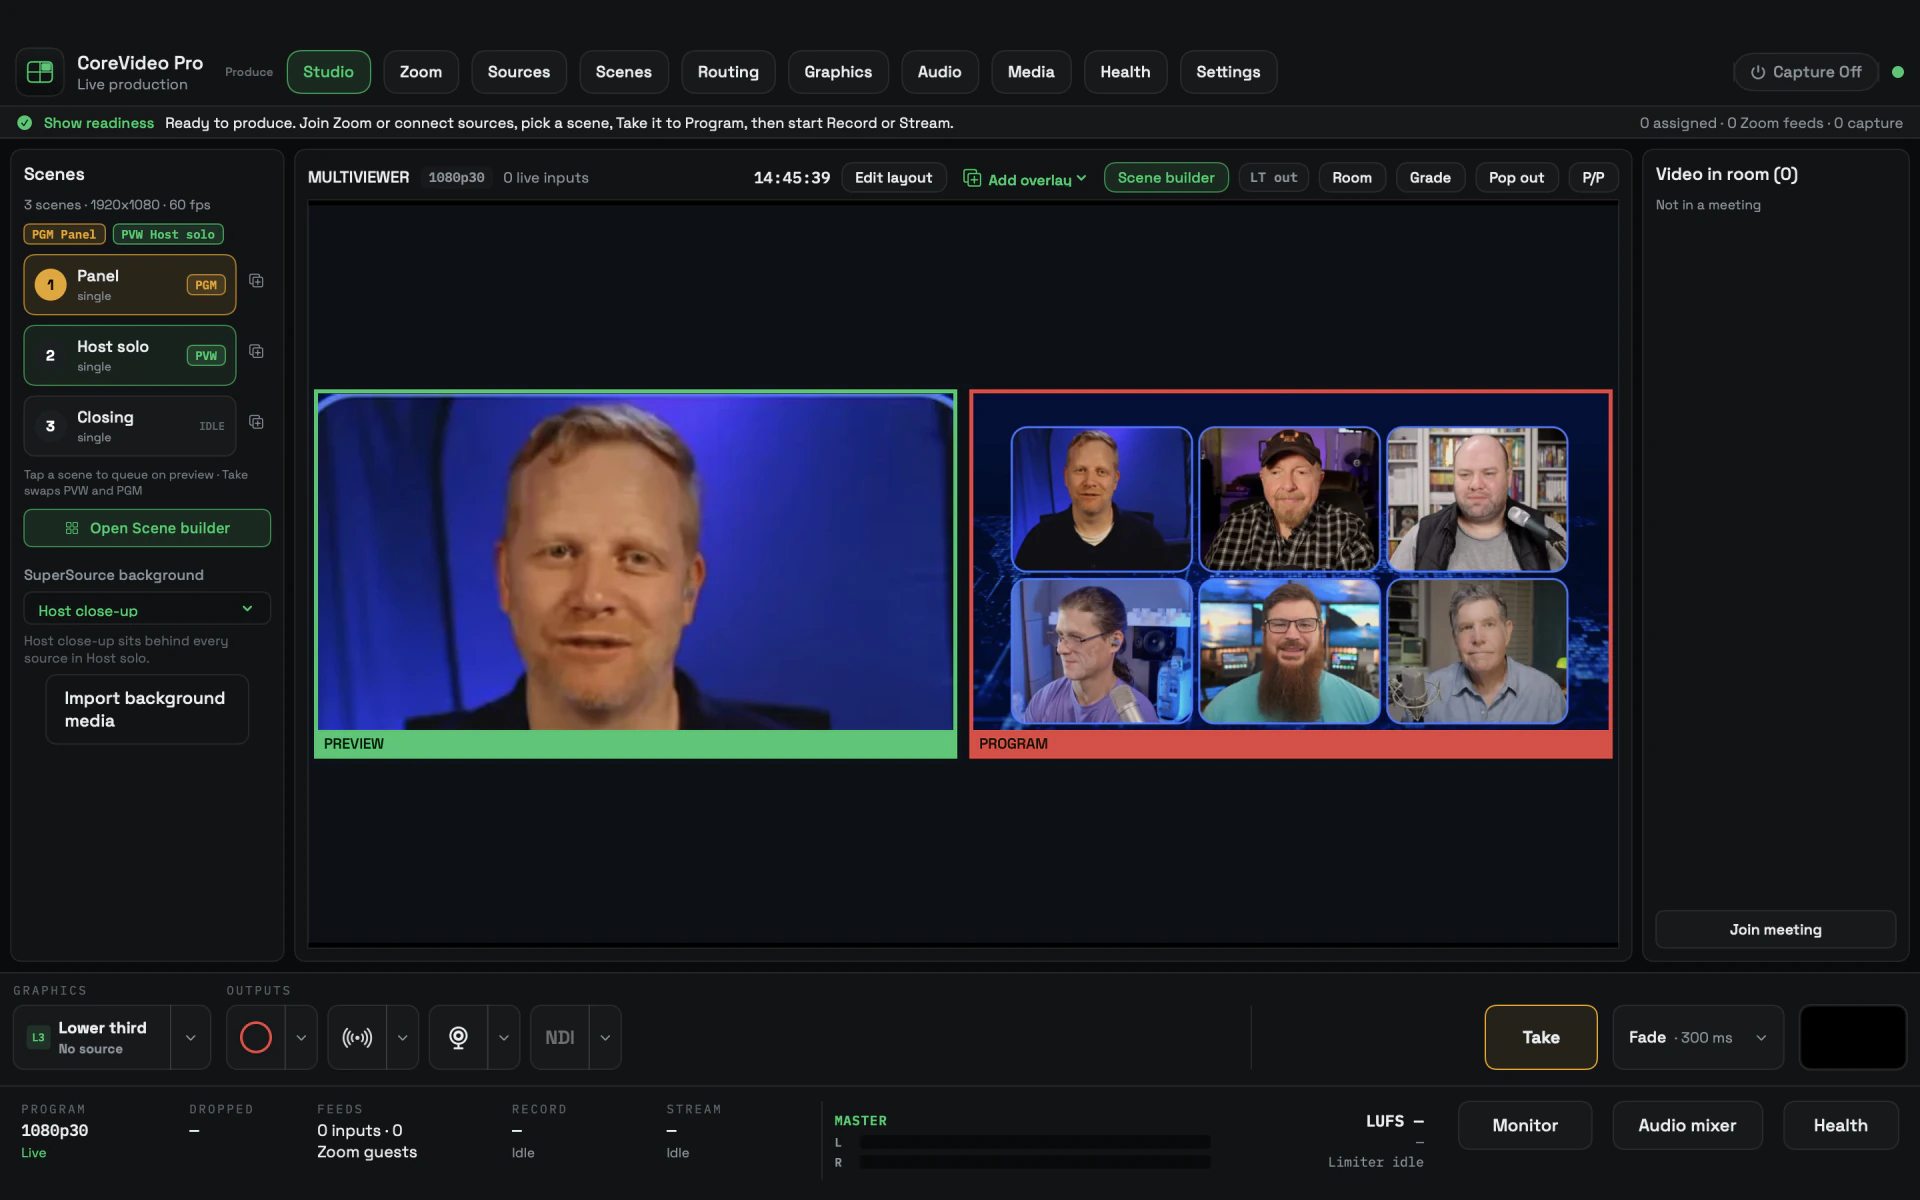
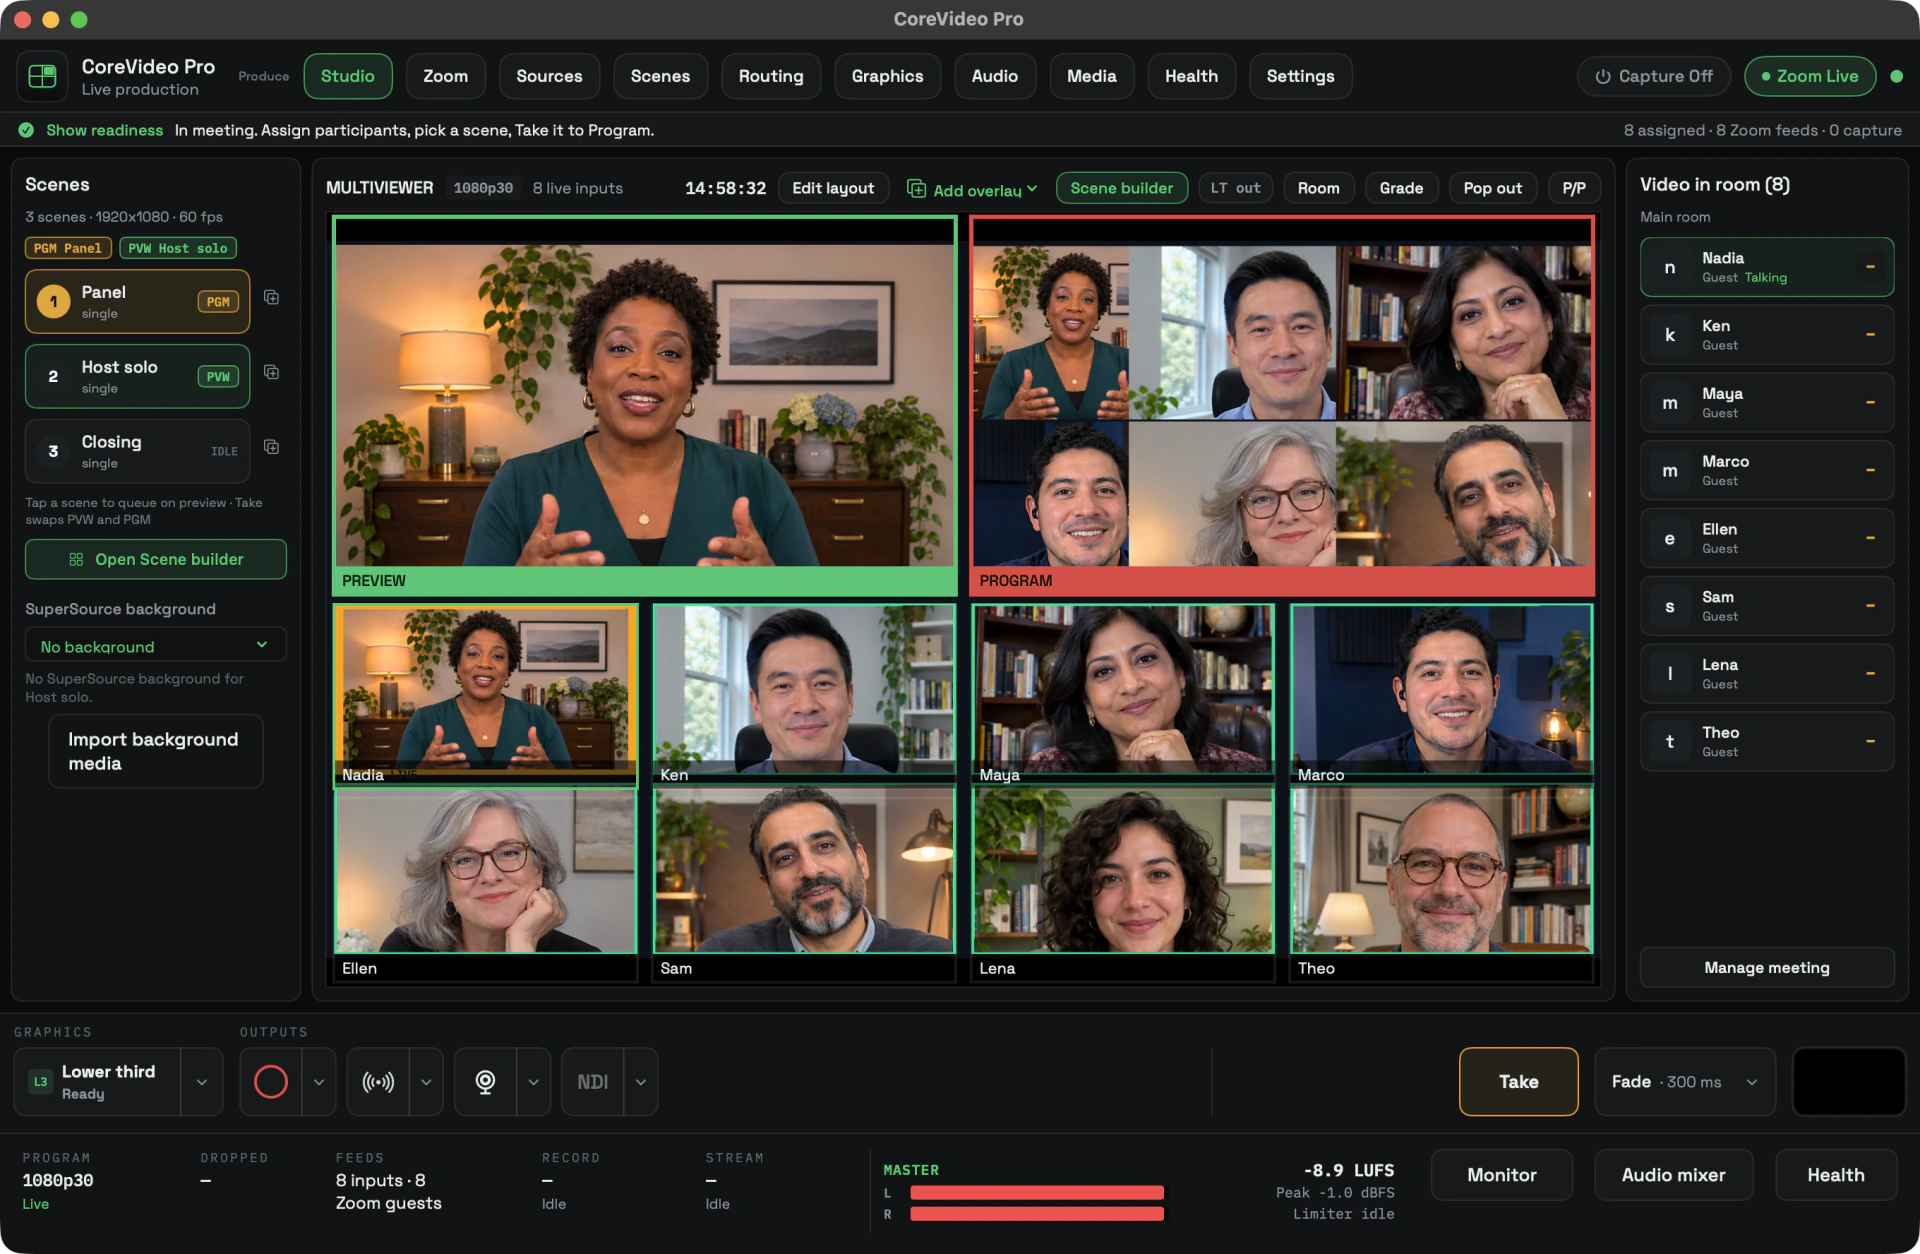
Show eight generated sources in the Pro multiviewer

diff --git a/public/pro/index.html b/public/pro/index.html
@@ -17,16 +17,16 @@
   <meta property="og:title" content="CoreVideo Pro 1.0 - Zoom Production Studio for Windows">
   <meta property="og:description" content="CoreVideo Pro 1.0 for Windows: Zoom guests as 1080p sources, scenes with Take, in-meeting talkback, ISO recording, streaming, NDI and a virtual camera.">
   <meta property="og:image" content="https://corevideo.io/assets/pro-studio-1-0.webp">
-  <meta property="og:image:alt" content="CoreVideo Pro Studio with a host close-up in Preview and a six-person panel in Program">
+  <meta property="og:image:alt" content="CoreVideo Pro Studio with a host in Preview, a six-person panel in Program, and eight source tiles below">
   <meta property="og:image:width" content="1920">
-  <meta property="og:image:height" content="1200">
+  <meta property="og:image:height" content="1254">
   <meta property="og:locale" content="en_US">
   <meta property="og:url" content="https://corevideo.io/pro/">
   <meta name="twitter:card" content="summary_large_image">
   <meta name="twitter:title" content="CoreVideo Pro 1.0 - Zoom Production Studio for Windows">
   <meta name="twitter:description" content="CoreVideo Pro 1.0 for Windows: Zoom guests as 1080p sources, scenes with Take, in-meeting talkback, ISO recording, streaming, NDI and a virtual camera.">
   <meta name="twitter:image" content="https://corevideo.io/assets/pro-studio-1-0.webp">
-  <meta name="twitter:image:alt" content="CoreVideo Pro Studio with a host close-up in Preview and a six-person panel in Program">
+  <meta name="twitter:image:alt" content="CoreVideo Pro Studio with a host in Preview, a six-person panel in Program, and eight source tiles below">
   <link rel="stylesheet" href="/assets/site-shell.css">
   <link rel="stylesheet" href="/assets/site.css">
   <script defer src="/assets/site-nav.js"></script>
@@ -63,8 +63,8 @@
     <p class="product-utility"><a href="/news/corevideo-pro-1-0/">What&rsquo;s in 1.0</a><a href="https://github.com/iamfatness/CoreVideoPro">GitHub repository</a></p>
   </div>
   <figure class="hero-media product-shot">
-    <img src="/assets/pro-studio-1-0.webp" width="1920" height="1200" alt="CoreVideo Pro Studio with a host close-up in Preview and a six-person panel in Program">
-    <figcaption><span>Studio on macOS showing Preview and Program in a sample show</span><a href="/assets/pro-studio-1-0.webp">View full size</a></figcaption>
+    <img src="/assets/pro-studio-1-0.webp" width="1920" height="1254" alt="CoreVideo Pro Studio with a host in Preview, a six-person panel in Program, and eight source tiles below">
+    <figcaption><span>Studio on macOS with eight AI-generated guest feeds in a sample show</span><a href="/assets/pro-studio-1-0.webp">View full size</a></figcaption>
   </figure>
 </section>
 <section class="link-grid" aria-label="CoreVideo Pro features">

diff --git a/CLAUDE.md b/CLAUDE.md
@@ -1659,8 +1659,8 @@ Pro ships from `iamfatness/CoreVideoPro`; `PRO_VERSION` and the `PRO_*` URLs in
 (`/news/corevideo-pro-1-0/`) pins the 1.0.0 installer on purpose; every other
 Pro download button uses releases/latest. `/pro/` and `/pro/documentation/`
 describe only what the CoreVideoPro README marks proven or shipped. The Pro
-hero shows the real Studio on macOS with example scenes built from the
-site's public guest imagery. The ZComms hero shows the released `v0.1.14`
+hero shows the real Studio on macOS with eight AI-generated guest feeds
+rendered through the local test engine. The ZComms hero shows the released `v0.1.14`
 panel rendered with sample participant and channel state.
 
 Every `<pre>` and `<table>` gets `tabindex="0"` at the single write point
